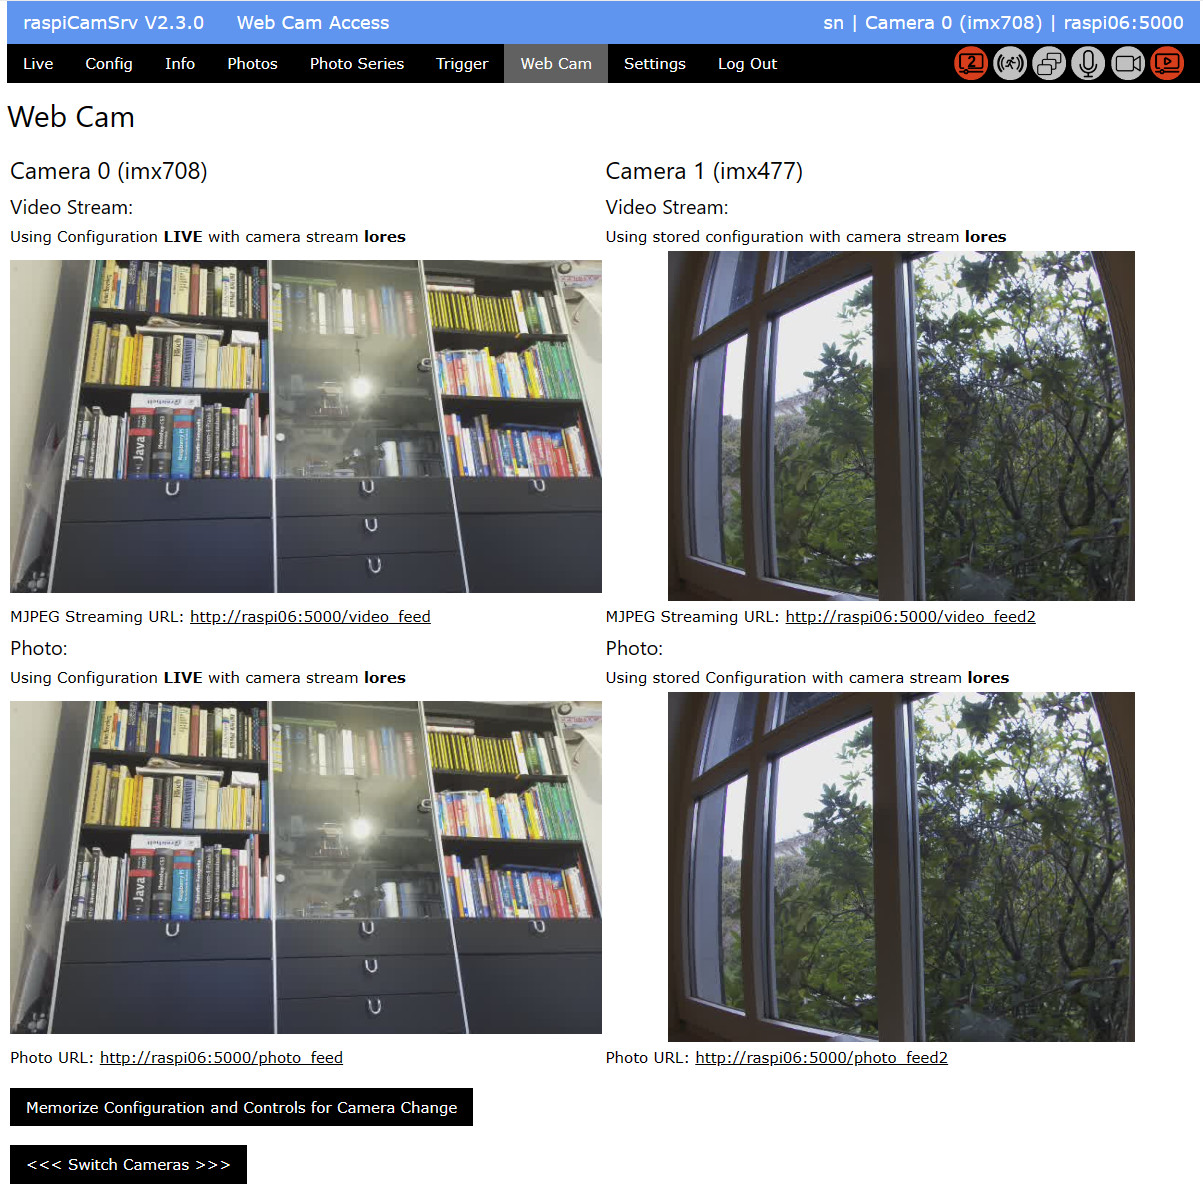
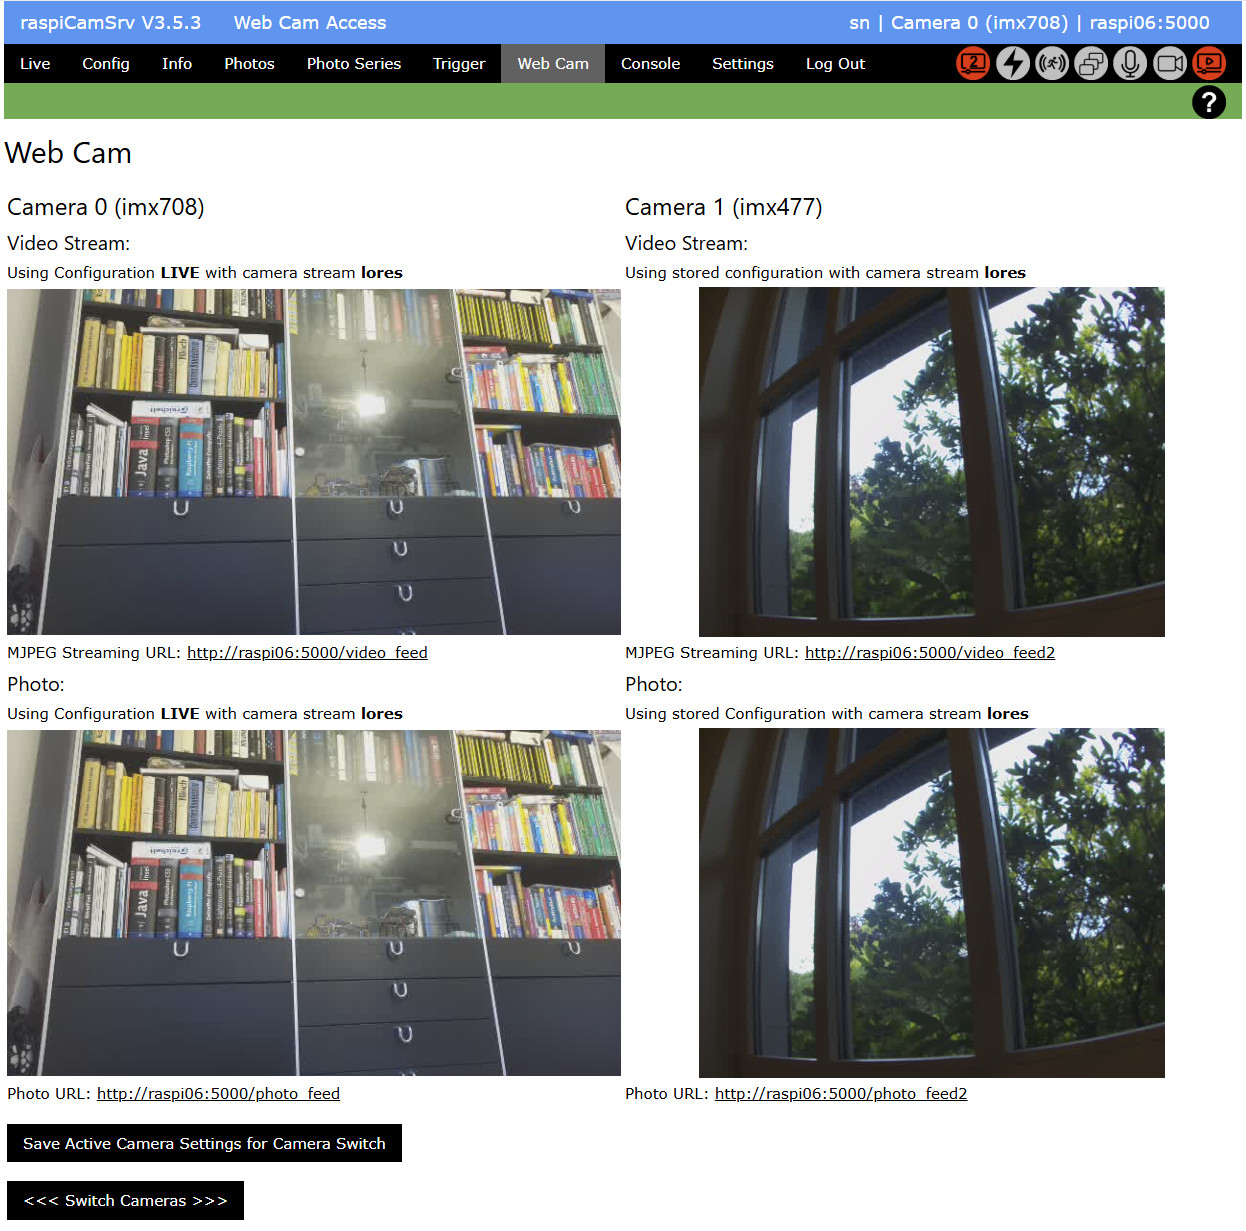
V3.5.3 - Web-Cam button renamed

diff --git a/raspiCamSrv/templates/webcam/webcam.html b/raspiCamSrv/templates/webcam/webcam.html
@@ -145,7 +145,7 @@
                 {% if str2 != None and sc.isLiveStream == True %}
                 <form method="post" action="{{ url_for('webcam.store_streaming_config') }}">
                     <p style="margin-bottom: 0"></p>
-                    <input class="w3-button w3-black" type="submit" value="Memorize Configuration and Controls for Camera Change">
+                    <input class="w3-button w3-black" type="submit" value="Save Active Camera Settings for Camera Switch">
                 </form>
                 {% endif %}
             </td>

diff --git a/raspiCamSrv/version.py b/raspiCamSrv/version.py
@@ -1,1 +1,1 @@
-version="V3.5.2"
+version="V3.5.3"

diff --git a/docs/Webcam.md b/docs/Webcam.md
@@ -23,7 +23,7 @@ The links shown on the page open a new browser window.
 
 ### Buttons
 
-#### Memorize Configuration and Controls for Camera Change
+#### Save Active Camera Settings for Camera Switch
 
 This button stores the current [Camera Configuration](./Configuration.md) for *Live View* and *Video* as well as the current [Controls](./CameraControls.md) settings for the active camera in a specific structure (streamingCfg) so that it can be reused for streaming in a case that the other camera has been activated. (See also [Configuring MJPEG Stream and jpeg Photo](#configuring-mjpeg-stream-and-jpeg-photo))
 
@@ -56,7 +56,7 @@ When the Flask server starts up without preloading stored configurations, the ac
 
 The Live View Configuration as well as the Controls for both cameras are stored in a specific streaming datastructure.
 
-When [Camera Configuration](./Configuration.md) and/or [Controls](./CameraControls.md) for the active camera are modified, these settings can be memorized with the **Memorize Configuration and Controls for Camera Change**.   
+When [Camera Configuration](./Configuration.md) and/or [Controls](./CameraControls.md) for the active camera are modified, these settings can be saved with the **Save Active Camera Settings for Camera Switch**.   
 When cameras are switched, their specific configurations and controls will be applied.
 
 In order to configure your camera setup, you can proceed as follows:
@@ -66,7 +66,7 @@ In order to configure your camera setup, you can proceed as follows:
 for example *Transform* and/or *Sensor Mode* with *Stream Size*
 3. Adjust the [Controls](./CameraControls.md),    
 for example *focus*/*lensposition*, *zoom*, *AutoExposure* or others
-4. When the setup is satisfactory, go to the *Webcam* dialog and press the **Memorize Configuration and Controls for Camera Change** button.
+4. When the setup is satisfactory, go to the *Webcam* dialog and press the **Save Active Camera Settings for Camera Switch** button.
 5. Then switch cameras with the **<<< Switch Cameras >>>** button.
 6. Repeat steps 2. to 4. for the other camera
 7. If you now switch cameras, each stream and photo should show in the way specifically configured for the camera.

diff --git a/docs/ReleaseNotes.md b/docs/ReleaseNotes.md
@@ -37,6 +37,13 @@ In case that the server did not start correctly or if you see an unexpected beha
 - If it exists, remove it:<br>```rm _loadConfigOnStart.txt```
 - Then repeat step 4, above
 
+## V3.5.3
+
+### Changes
+
+In dialog [Web Cam](./Webcam.md), the button **Memorize Configuration and Controls for Camera Change** was renamed to **Save Active Camera Settings for Camera Switch** in order to more clearly express its functionality.   
+See [raspi-cam-srv Issue #60](https://github.com/signag/raspi-cam-srv/issues/60)
+
 ## V3.5.2
 
 ### Bugfixes
